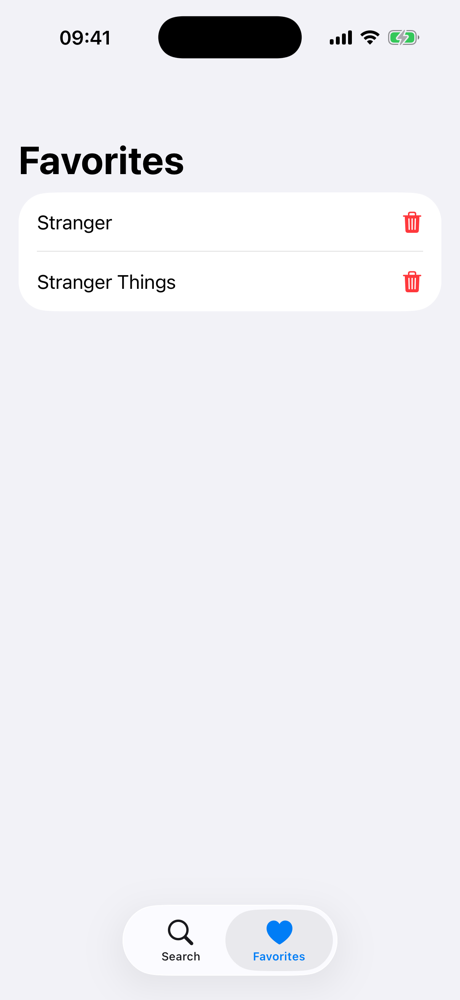
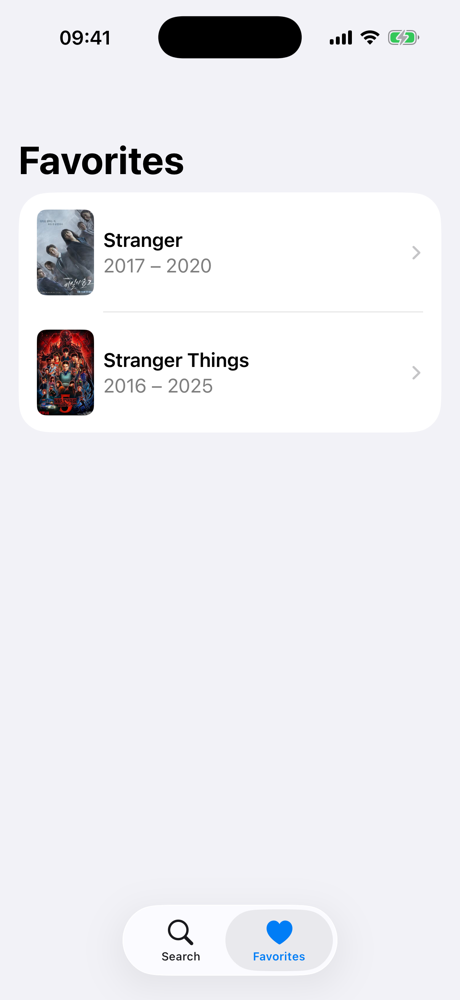
docs: retake the favorites screenshot
The README now shows the new favorites list, with a poster thumbnail, name and years for each show.

Changed region(s): [[0.0609, 0.186, 0.5478, 0.434], [0.8826, 0.186, 0.913, 0.31]]

diff --git a/README.md b/README.md
@@ -9,7 +9,7 @@ Search TV shows, open their details and keep favorites on device. A native Swift
 <p align="center">
   <img src="docs/screenshots/search.png" width="190" alt="Search results for “stranger” shown as a horizontal carousel of poster cards">
   <img src="docs/screenshots/detail.png" width="190" alt="Stranger Things detail screen with poster, rating, favorite button, genres and summary">
-  <img src="docs/screenshots/favorites.png" width="190" alt="Favorites tab listing two saved shows">
+  <img src="docs/screenshots/favorites.png" width="190" alt="Favorites tab listing two saved shows, each with its poster thumbnail, name and years">
   <img src="docs/screenshots/detail-dark.png" width="190" alt="The detail screen in dark mode">
 </p>
 
